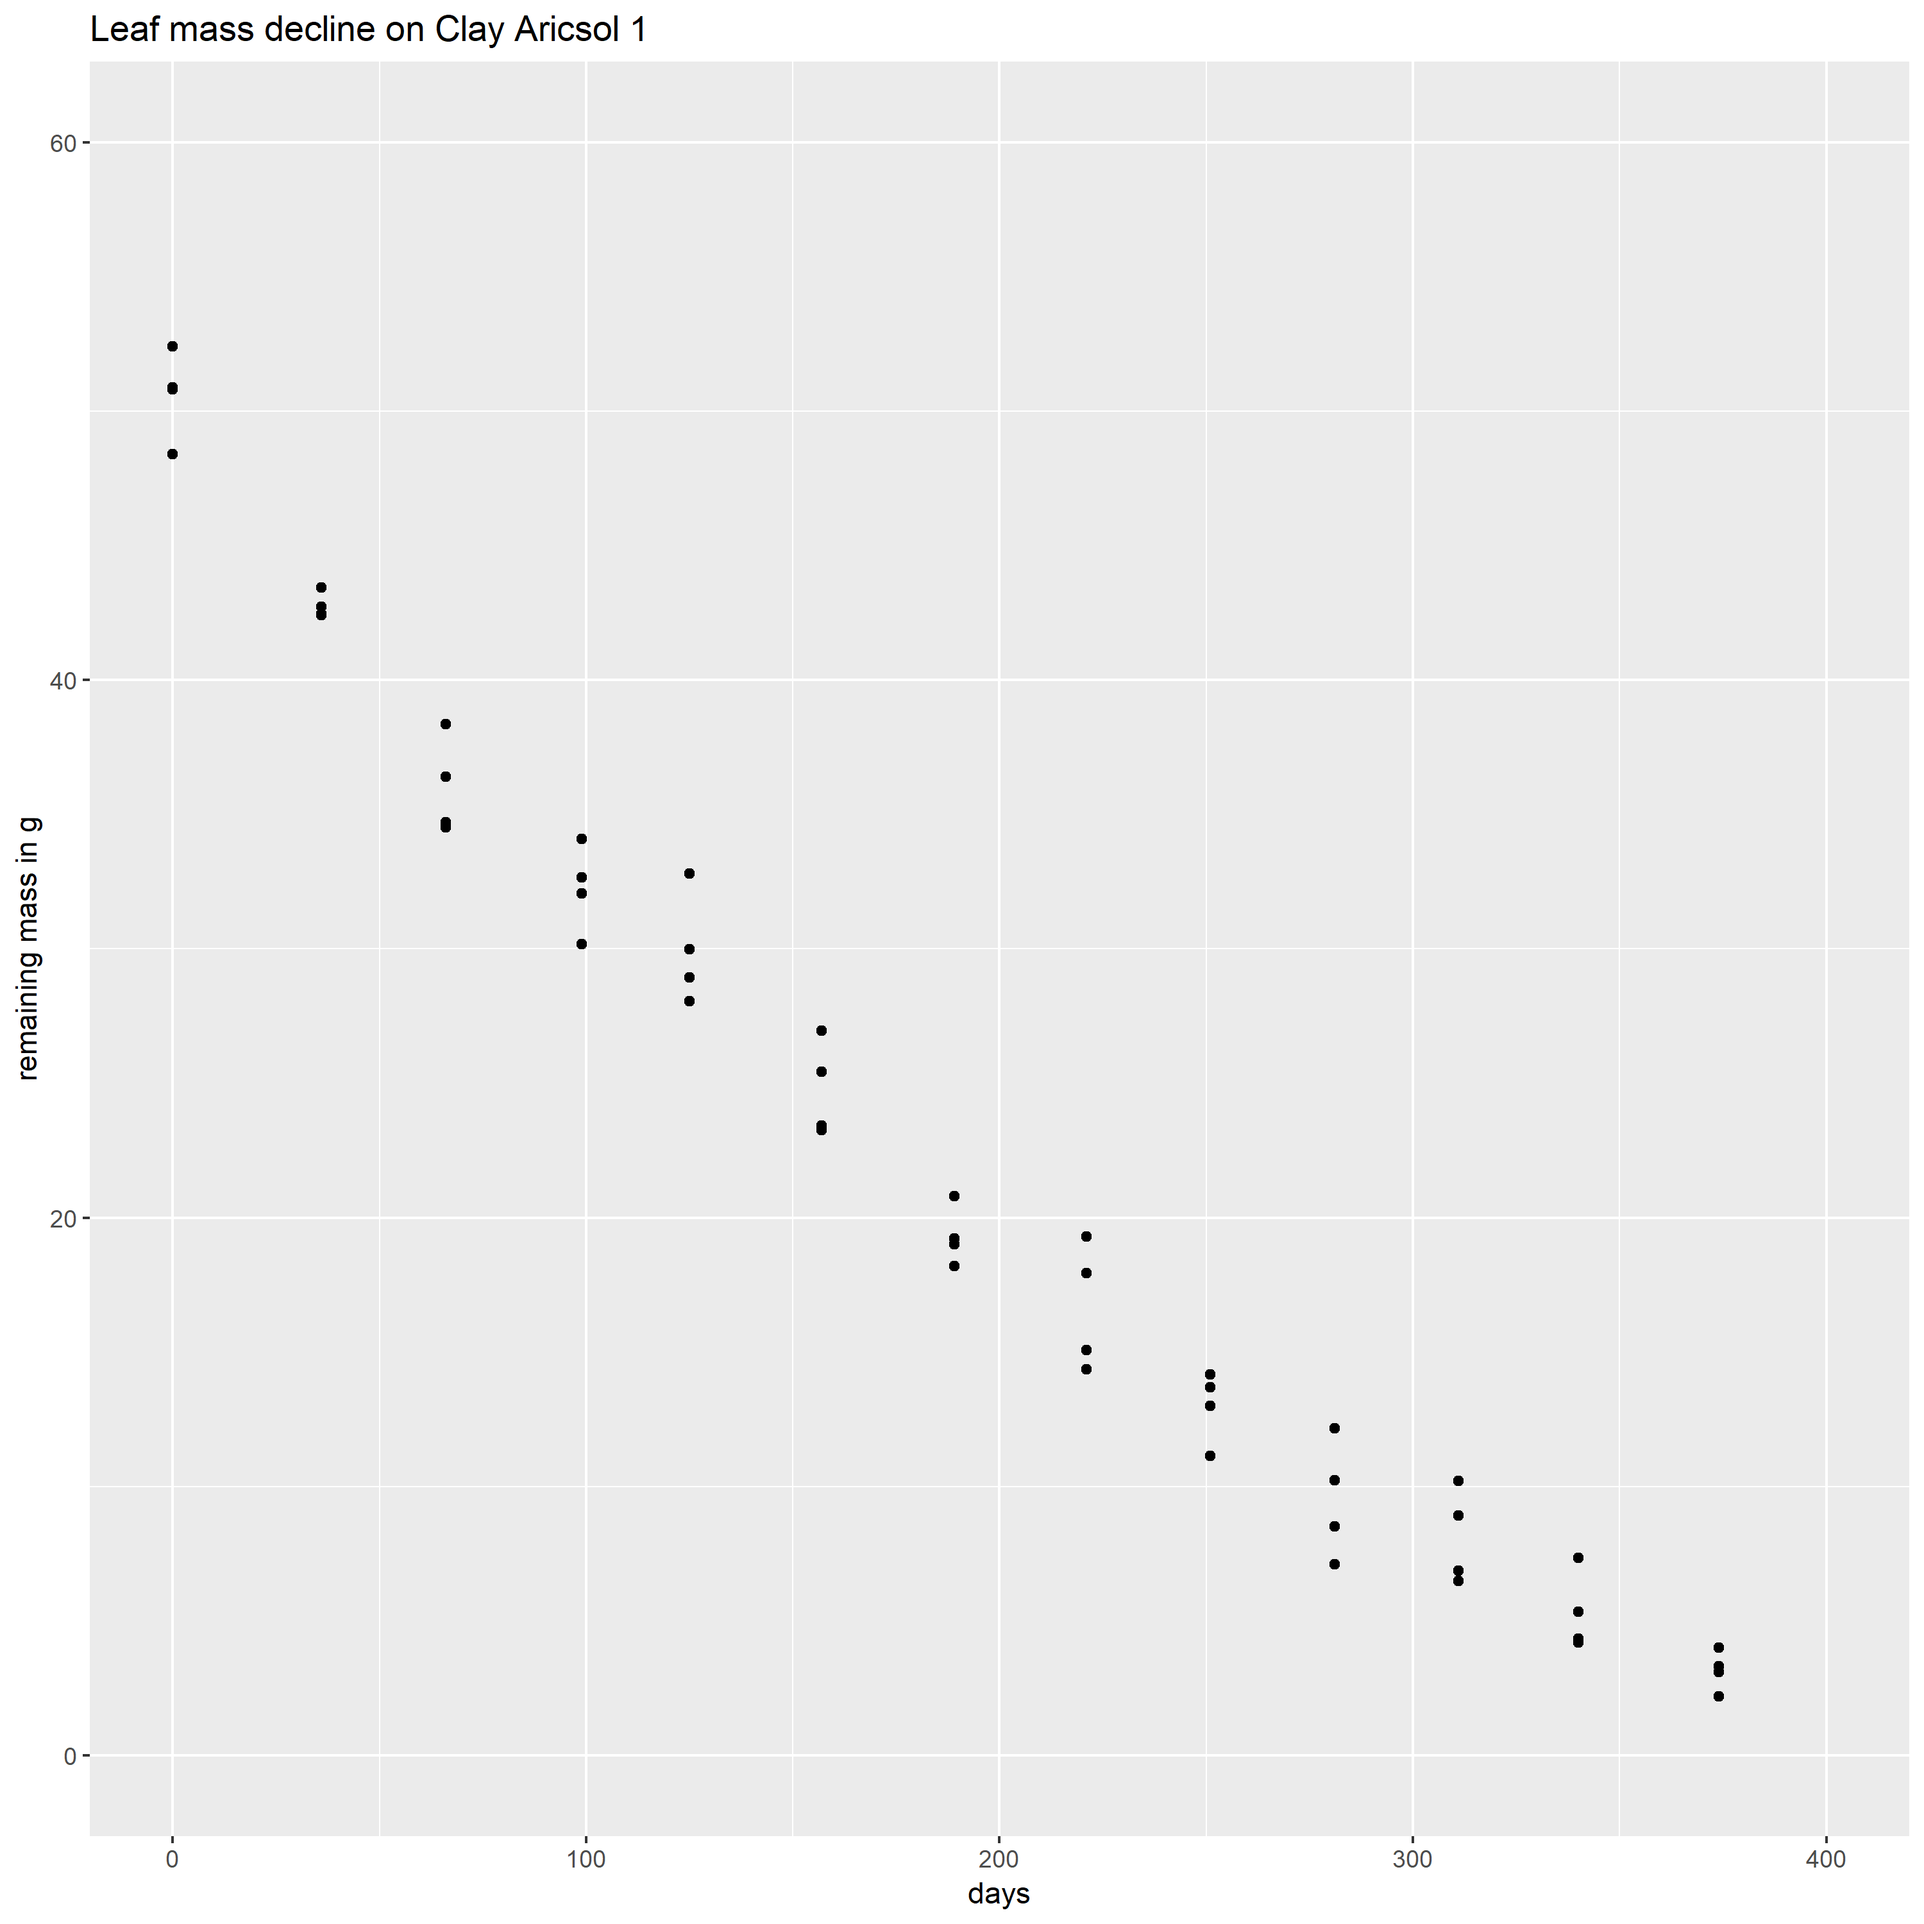
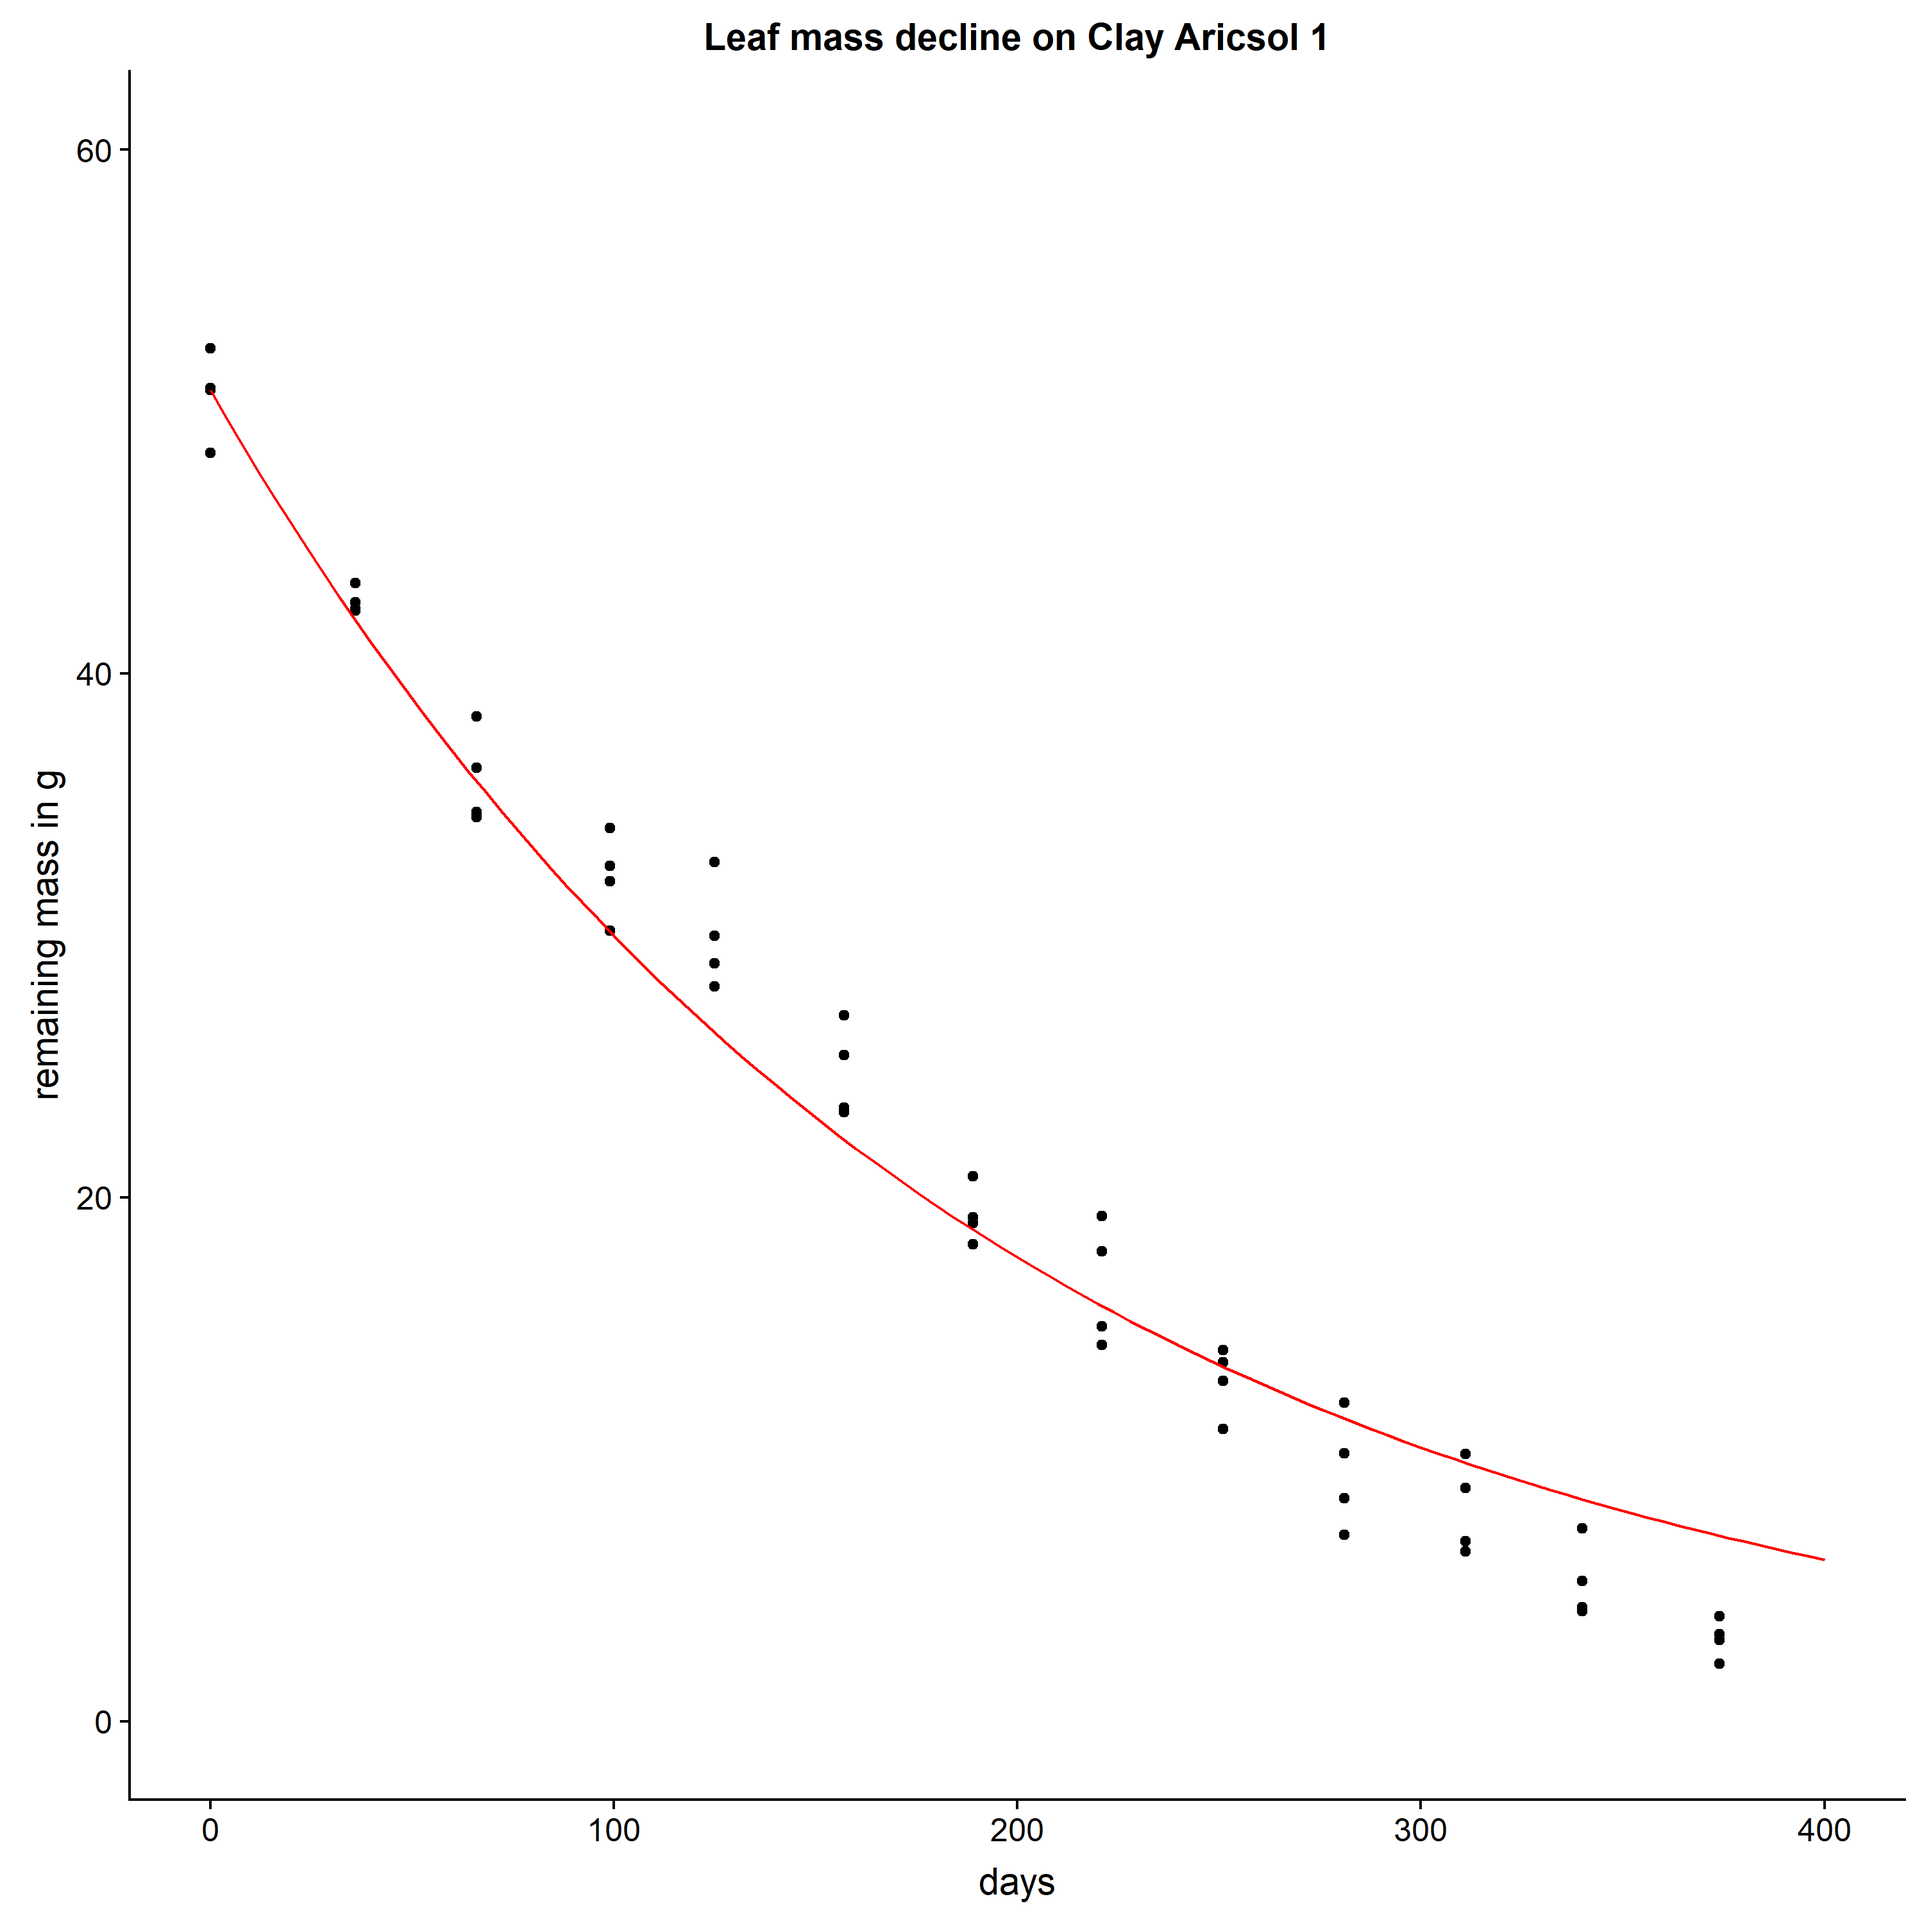
ggplot added

diff --git a/report-oilpalm.md b/report-oilpalm.md
@@ -73,3 +73,35 @@ summary(fit)
     ## Achieved convergence tolerance: 5.804e-07
 
 In the output above, we are given the k and some information on how well it fits the observed data.
+
+We made the plot using the basic plot package in R. However, in order to get a much nicer plot, I recommend using the ggplot 2 package. It's already included in the tidyverse library we installed earlier.
+
+We first define the functin including k, which we get from above and define what data we want to use:
+
+``` r
+func1<- function(x) {50.81 * 2.718^(-0.0052707 * x)}
+dat1 = data.frame(x = DATA$d, y = DATA$Mass_g)
+```
+
+Now we define the plot:
+
+``` r
+g1 <- ggplot(dat1,aes(x,y)) +
+  xlim(0,400) +
+  ylim(0,60) +
+  geom_point(show.legend = FALSE) +
+  ggtitle("Leaf mass decline on Clay Aricsol 1") +
+  xlab("days") +
+  ylab("remaining mass in g") +
+  stat_function(fun = func1, xlim=c(0,400), col = "red")
+g1
+```
+
+And this is what we get: ![](report-oilpalm_files/figure-markdown_github/gg-plot-output-1.png)
+
+To save your plot in a folder called figs within your project, we can use the cowplot package.
+
+``` r
+library(cowplot)
+ggsave("figs/oil-palm-decomp.png", plot = g1, width = 10, height = 10)
+```
